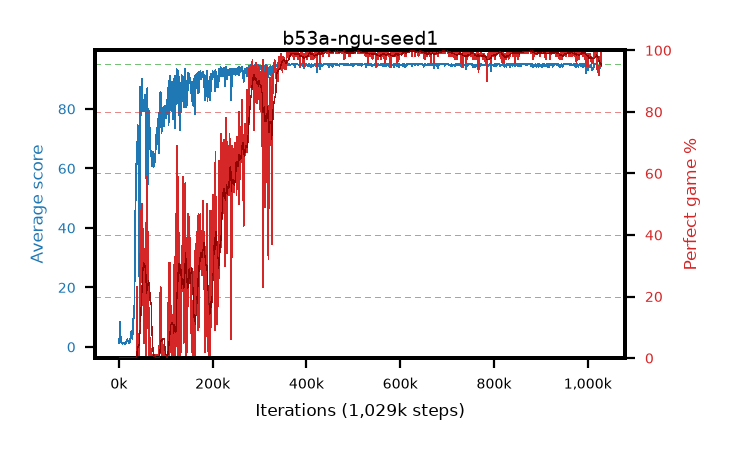
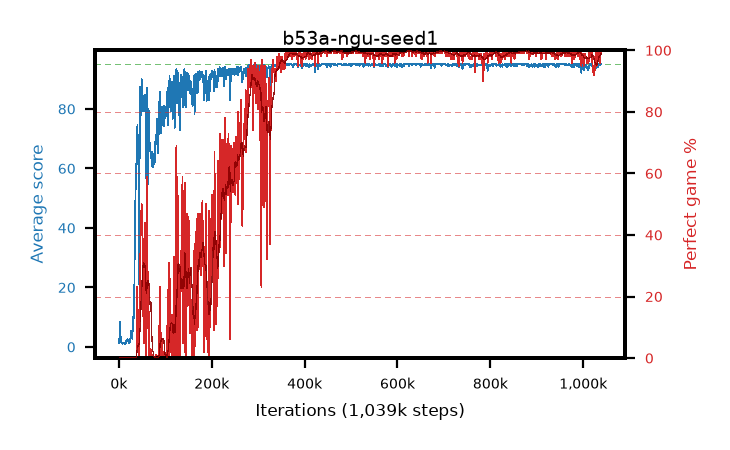
live pictures of 4 arm(s)

diff --git a/results/b53a-ngu-seed1/b53a-ngu-seed1.md b/results/b53a-ngu-seed1/b53a-ngu-seed1.md
@@ -1,6 +1,6 @@
 # b53a-ngu-seed1
 
-step **1,029,000** · 1029 evals · trailing **94.23** · peak **94.96** @643,000 · sef **72.7** · best30 **99.7** @643,000
+step **1,039,000** · 1039 evals · trailing **94.47** · peak **94.96** @643,000 · sef **73.0** · best30 **99.7** @643,000
 
 ## Config
 
@@ -80,15 +80,15 @@ step **1,029,000** · 1029 evals · trailing **94.23** · peak **94.96** @643,00
 | 2000 | 8.43 | 4.84 | 0.0 | 21.0 | 7.201 | 0.0 | 0.4 |
 | 3000 | 8.52 | 6.07 | 0.0 | 26.0 | 5.525 | 0.0 | 0.4 |
 | ... | ... | ... | ... | ... | ... | ... | ... |
-| 1018000 | 95.0 | 94.26 | 95.0 | 95.0 | 193.667 | 100.0 | 0.4 |
-| 1019000 | 95.0 | 94.28 | 95.0 | 95.0 | 193.705 | 100.0 | 0.4 |
-| 1020000 | 94.19 | 94.28 | 34.0 | 95.0 | 187.718 | 95.0 | 0.4 |
-| 1021000 | 93.98 | 94.25 | 60.0 | 95.0 | 185.544 | 93.0 | 0.4 |
-| 1022000 | 94.59 | 94.26 | 85.0 | 95.0 | 188.118 | 95.0 | 0.4 |
-| 1023000 | 93.64 | 94.21 | 44.0 | 95.0 | 185.218 | 93.0 | 0.4 |
-| 1024000 | 93.35 | 94.18 | 41.0 | 95.0 | 183.833 | 92.0 | 0.4 |
-| 1025000 | 93.17 | 94.12 | 8.0 | 95.0 | 186.705 | 95.0 | 0.4 |
-| 1026000 | 94.94 | 94.21 | 90.0 | 95.0 | 191.56 | 98.0 | 0.4 |
-| 1027000 | 93.69 | 94.18 | 36.0 | 95.0 | 187.282 | 95.0 | 0.4 |
 | 1028000 | 95.0 | 94.21 | 95.0 | 95.0 | 193.702 | 100.0 | 0.4 |
 | 1029000 | 94.41 | 94.23 | 50.0 | 95.0 | 187.977 | 95.0 | 0.4 |
+| 1030000 | 95.0 | 94.23 | 95.0 | 95.0 | 193.698 | 100.0 | 0.4 |
+| 1031000 | 95.0 | 94.3 | 95.0 | 95.0 | 193.685 | 100.0 | 0.4 |
+| 1032000 | 94.04 | 94.3 | 18.0 | 95.0 | 189.645 | 97.0 | 0.4 |
+| 1033000 | 95.0 | 94.32 | 95.0 | 95.0 | 193.706 | 100.0 | 0.4 |
+| 1034000 | 95.0 | 94.34 | 95.0 | 95.0 | 193.703 | 100.0 | 0.4 |
+| 1035000 | 94.98 | 94.37 | 93.0 | 95.0 | 192.657 | 99.0 | 0.4 |
+| 1036000 | 94.6 | 94.36 | 69.0 | 95.0 | 189.124 | 96.0 | 0.4 |
+| 1037000 | 95.0 | 94.39 | 95.0 | 95.0 | 193.713 | 100.0 | 0.4 |
+| 1038000 | 94.9 | 94.42 | 85.0 | 95.0 | 192.553 | 99.0 | 0.4 |
+| 1039000 | 94.97 | 94.47 | 92.0 | 95.0 | 192.676 | 99.0 | 0.4 |

diff --git a/results/b53d-ngu-seed4/b53d-ngu-seed4.md b/results/b53d-ngu-seed4/b53d-ngu-seed4.md
@@ -1,6 +1,6 @@
 # b53d-ngu-seed4
 
-step **1,029,000** · 1029 evals · trailing **94.89** · peak **94.92** @572,000 · sef **70.7** · best30 **99.7** @1,024,000
+step **1,039,000** · 1039 evals · trailing **94.92** · peak **94.92** @572,000 · sef **70.9** · best30 **99.7** @1,024,000
 
 ## Config
 
@@ -80,15 +80,15 @@ step **1,029,000** · 1029 evals · trailing **94.89** · peak **94.92** @572,00
 | 2000 | 2.39 | 1.47 | 0.0 | 8.0 | 1.286 | 0.0 | 0.4 |
 | 3000 | 6.99 | 3.31 | 0.0 | 25.0 | 5.34 | 0.0 | 0.4 |
 | ... | ... | ... | ... | ... | ... | ... | ... |
-| 1018000 | 95.0 | 94.9 | 95.0 | 95.0 | 193.685 | 100.0 | 0.4 |
-| 1019000 | 95.0 | 94.9 | 95.0 | 95.0 | 193.67 | 100.0 | 0.4 |
-| 1020000 | 94.8 | 94.89 | 75.0 | 95.0 | 192.514 | 99.0 | 0.4 |
-| 1021000 | 94.98 | 94.89 | 93.0 | 95.0 | 192.61 | 99.0 | 0.4 |
-| 1022000 | 95.0 | 94.92 | 95.0 | 95.0 | 193.704 | 100.0 | 0.4 |
-| 1023000 | 94.93 | 94.92 | 88.0 | 95.0 | 192.596 | 99.0 | 0.4 |
-| 1024000 | 95.0 | 94.92 | 95.0 | 95.0 | 193.692 | 100.0 | 0.4 |
-| 1025000 | 95.0 | 94.92 | 95.0 | 95.0 | 193.703 | 100.0 | 0.4 |
-| 1026000 | 95.0 | 94.92 | 95.0 | 95.0 | 193.716 | 100.0 | 0.4 |
-| 1027000 | 95.0 | 94.92 | 95.0 | 95.0 | 193.71 | 100.0 | 0.4 |
 | 1028000 | 93.95 | 94.89 | 26.0 | 95.0 | 189.575 | 97.0 | 0.4 |
 | 1029000 | 95.0 | 94.89 | 95.0 | 95.0 | 193.689 | 100.0 | 0.4 |
+| 1030000 | 94.85 | 94.88 | 80.0 | 95.0 | 192.527 | 99.0 | 0.4 |
+| 1031000 | 95.0 | 94.9 | 95.0 | 95.0 | 193.691 | 100.0 | 0.4 |
+| 1032000 | 95.0 | 94.9 | 95.0 | 95.0 | 193.708 | 100.0 | 0.4 |
+| 1033000 | 94.93 | 94.9 | 88.0 | 95.0 | 192.563 | 99.0 | 0.4 |
+| 1034000 | 95.0 | 94.9 | 95.0 | 95.0 | 193.687 | 100.0 | 0.4 |
+| 1035000 | 94.92 | 94.89 | 88.0 | 95.0 | 191.539 | 98.0 | 0.4 |
+| 1036000 | 95.0 | 94.89 | 95.0 | 95.0 | 193.702 | 100.0 | 0.4 |
+| 1037000 | 95.0 | 94.92 | 95.0 | 95.0 | 193.699 | 100.0 | 0.4 |
+| 1038000 | 94.97 | 94.92 | 92.0 | 95.0 | 192.659 | 99.0 | 0.4 |
+| 1039000 | 94.95 | 94.92 | 90.0 | 95.0 | 192.653 | 99.0 | 0.4 |
